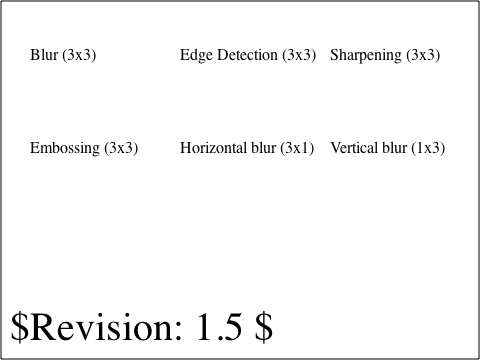
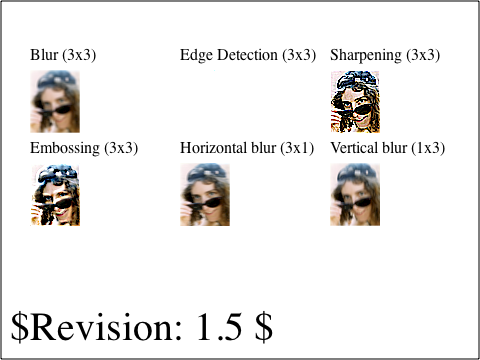
WebCore: Implementing feConvolveMatrix svg filter https://bugs.webkit.org/show_bug.cgi?id=5861
Reviewed by Nikolas Zimmermann.

The implementation is optimized for speed, and uses
multiple algorithms for different parts of the image.
See SVGFEConvolveMatrixElement.cpp for a detailed
description.

* svg/SVGFEConvolveMatrixElement.cpp:
(WebCore::SVGFEConvolveMatrixElement::build):
* svg/graphics/filters/SVGFEConvolveMatrix.cpp:
(WebCore::clampRGBAValue):
(WebCore::FEConvolveMatrix::fastSetInteriorPixels):
(WebCore::FEConvolveMatrix::getPixelValue):
(WebCore::FEConvolveMatrix::fastSetOuterPixels):
(WebCore::FEConvolveMatrix::setInteriorPixels):
(WebCore::FEConvolveMatrix::setOuterPixels):
(WebCore::FEConvolveMatrix::apply):
* svg/graphics/filters/SVGFEConvolveMatrix.h:
(WebCore::FEConvolveMatrix::uniteChildEffectSubregions):

LayoutTests: Updating expected values for feConvolveMatrix
https://bugs.webkit.org/show_bug.cgi?id=5861

Reviewed by Nikolas Zimmermann.

* platform/mac-leopard/svg/W3C-SVG-1.1/filters-conv-01-f-expected.checksum:
* platform/mac-leopard/svg/W3C-SVG-1.1/filters-conv-01-f-expected.png:

Identifier: 53193@main
git-svn-id: https://svn.webkit.org/repository/webkit/trunk@62243 268f45cc-cd09-0410-ab3c-d52691b4dbfc

diff --git a/WebCore/svg/graphics/filters/SVGFEConvolveMatrix.cpp b/WebCore/svg/graphics/filters/SVGFEConvolveMatrix.cpp
@@ -138,8 +138,295 @@ void FEConvolveMatrix::setPreserveAlpha(bool preserveAlpha)
     m_preserveAlpha = preserveAlpha; 
 }
 
-void FEConvolveMatrix::apply(Filter*)
+/*
+   -----------------------------------
+      ConvolveMatrix implementation
+   -----------------------------------
+
+   The image rectangle is split in the following way:
+
+      +---------------------+
+      |          A          |
+      +---------------------+
+      |   |             |   |
+      | B |      C      | D |
+      |   |             |   |
+      +---------------------+
+      |          E          |
+      +---------------------+
+
+   Where region C contains those pixels, whose values
+   can be calculated without crossing the edge of the rectangle.
+
+   Example:
+      Image size: width: 10, height: 10
+
+      Order (kernel matrix size): width: 3, height 4
+      Target: x:1, y:3
+
+      The following figure shows the target inside the kernel matrix:
+
+        ...
+        ...
+        ...
+        .X.
+
+   The regions in this case are the following:
+      Note: (x1, y1) top-left and (x2, y2) is the bottom-right corner
+      Note: row x2 and column y2 is not part of the region
+            only those (x, y) pixels, where x1 <= x < x2 and y1 <= y < y2
+
+      Region A: x1: 0, y1: 0, x2: 10, y2: 3
+      Region B: x1: 0, y1: 3, x2: 1, y2: 10
+      Region C: x1: 1, y1: 3, x2: 9, y2: 10
+      Region D: x1: 9, y1: 3, x2: 10, y2: 10
+      Region E: x1: 0, y1: 10, x2: 10, y2: 10 (empty region)
+
+   Since region C (often) contains most of the pixels, we implemented
+   a fast algoritm to calculate these values, called fastSetInteriorPixels.
+   For other regions, fastSetOuterPixels is used, which calls getPixelValue,
+   to handle pixels outside of the image. In a rare situations, when
+   kernel matrix is bigger than the image, all pixels are calculated by this
+   function.
+
+   Although these two functions have lot in common, I decided not to make
+   common a template for them, since there are key differences as well,
+   and would make it really hard to understand.
+*/
+
+static ALWAYS_INLINE unsigned char clampRGBAValue(float rgba)
 {
+    if (rgba <= 0)
+        return 0;
+    if (rgba >= 255)
+        return 255;
+    return rgba;
+}
+
+// Only for region C
+template<bool preserveAlphaValues>
+ALWAYS_INLINE void FEConvolveMatrix::fastSetInteriorPixels(PaintingData& paintingData, int clipRight, int clipBottom)
+{
+    // edge mode does not affect these pixels
+    int pixel = (m_targetOffset.y() * paintingData.width + m_targetOffset.x()) * 4;
+    int startKernelPixel = 0;
+    int kernelIncrease = clipRight * 4;
+    int xIncrease = (m_kernelSize.width() - 1) * 4;
+    // Contains the sum of rgb(a) components
+    float totals[3 + (preserveAlphaValues ? 0 : 1)];
+
+    // m_divisor cannot be 0, SVGFEConvolveMatrixElement ensures this
+    ASSERT(m_divisor);
+
+    for (int y = clipBottom + 1; y > 0; --y) {
+        for (int x = clipRight + 1; x > 0; --x) {
+            int kernelValue = m_kernelMatrix.size() - 1;
+            int kernelPixel = startKernelPixel;
+            int width = m_kernelSize.width();
+
+            totals[0] = 0;
+            totals[1] = 0;
+            totals[2] = 0;
+            if (!preserveAlphaValues)
+                totals[3] = 0;
+
+            while (kernelValue >= 0) {
+                totals[0] += m_kernelMatrix[kernelValue] * static_cast<float>(paintingData.srcPixelArray->get(kernelPixel++));
+                totals[1] += m_kernelMatrix[kernelValue] * static_cast<float>(paintingData.srcPixelArray->get(kernelPixel++));
+                totals[2] += m_kernelMatrix[kernelValue] * static_cast<float>(paintingData.srcPixelArray->get(kernelPixel++));
+                if (!preserveAlphaValues)
+                    totals[3] += m_kernelMatrix[kernelValue] * static_cast<float>(paintingData.srcPixelArray->get(kernelPixel));
+                ++kernelPixel;
+                --kernelValue;
+                if (!--width) {
+                    kernelPixel += kernelIncrease;
+                    width = m_kernelSize.width();
+                }
+            }
+
+            paintingData.dstPixelArray->set(pixel++, clampRGBAValue(totals[0] / m_divisor + paintingData.bias));
+            paintingData.dstPixelArray->set(pixel++, clampRGBAValue(totals[1] / m_divisor + paintingData.bias));
+            paintingData.dstPixelArray->set(pixel++, clampRGBAValue(totals[2] / m_divisor + paintingData.bias));
+            if (!preserveAlphaValues)
+                paintingData.dstPixelArray->set(pixel++, clampRGBAValue(totals[3] / m_divisor + paintingData.bias));
+            else {
+                paintingData.dstPixelArray->set(pixel, paintingData.srcPixelArray->get(pixel));
+                ++pixel;
+            }
+            startKernelPixel += 4;
+        }
+        pixel += xIncrease;
+        startKernelPixel += xIncrease;
+    }
+}
+
+ALWAYS_INLINE int FEConvolveMatrix::getPixelValue(PaintingData& paintingData, int x, int y)
+{
+    if (x >= 0 && x < paintingData.width && x >= 0 && y < paintingData.height)
+        return (y * paintingData.width + x) << 2;
+
+    switch (m_edgeMode) {
+    default: // EDGEMODE_NONE
+        return -1;
+    case EDGEMODE_DUPLICATE:
+        if (x < 0)
+            x = 0;
+        else if (x >= paintingData.width)
+            x = paintingData.width - 1;
+        if (y < 0)
+            y = 0;
+        else if (y >= paintingData.height)
+            y = paintingData.height - 1;
+        return (y * paintingData.width + x) << 2;
+    case EDGEMODE_WRAP:
+        while (x < 0)
+            x += paintingData.width;
+        x %= paintingData.width;
+        while (y < 0)
+            y += paintingData.height;
+        y %= paintingData.height;
+        return (y * paintingData.width + x) << 2;
+    }
+}
+
+// For other regions than C
+template<bool preserveAlphaValues>
+void FEConvolveMatrix::fastSetOuterPixels(PaintingData& paintingData, int x1, int y1, int x2, int y2)
+{
+    int pixel = (y1 * paintingData.width + x1) * 4;
+    int height = y2 - y1;
+    int width = x2 - x1;
+    int beginKernelPixelX = x1 - m_targetOffset.x();
+    int startKernelPixelX = beginKernelPixelX;
+    int startKernelPixelY = y1 - m_targetOffset.y();
+    int xIncrease = (paintingData.width - width) * 4;
+    // Contains the sum of rgb(a) components
+    float totals[3 + (preserveAlphaValues ? 0 : 1)];
+
+    // m_divisor cannot be 0, SVGFEConvolveMatrixElement ensures this
+    ASSERT(m_divisor);
+
+    for (int y = height; y > 0; --y) {
+        for (int x = width; x > 0; --x) {
+            int kernelValue = m_kernelMatrix.size() - 1;
+            int kernelPixelX = startKernelPixelX;
+            int kernelPixelY = startKernelPixelY;
+            int width = m_kernelSize.width();
+
+            totals[0] = 0;
+            totals[1] = 0;
+            totals[2] = 0;
+            if (!preserveAlphaValues)
+                totals[3] = 0;
+
+            while (kernelValue >= 0) {
+                int pixelIndex = getPixelValue(paintingData, kernelPixelX, kernelPixelY);
+                if (pixelIndex >= 0) {
+                    totals[0] += m_kernelMatrix[kernelValue] * static_cast<float>(paintingData.srcPixelArray->get(pixelIndex));
+                    totals[1] += m_kernelMatrix[kernelValue] * static_cast<float>(paintingData.srcPixelArray->get(pixelIndex + 1));
+                    totals[2] += m_kernelMatrix[kernelValue] * static_cast<float>(paintingData.srcPixelArray->get(pixelIndex + 2));
+                }
+                if (!preserveAlphaValues && pixelIndex >= 0)
+                    totals[3] += m_kernelMatrix[kernelValue] * static_cast<float>(paintingData.srcPixelArray->get(pixelIndex + 3));
+                ++kernelPixelX;
+                --kernelValue;
+                if (!--width) {
+                    kernelPixelX = startKernelPixelX;
+                    ++kernelPixelY;
+                    width = m_kernelSize.width();
+                }
+            }
+
+            paintingData.dstPixelArray->set(pixel++, clampRGBAValue(totals[0] / m_divisor + paintingData.bias));
+            paintingData.dstPixelArray->set(pixel++, clampRGBAValue(totals[1] / m_divisor + paintingData.bias));
+            paintingData.dstPixelArray->set(pixel++, clampRGBAValue(totals[2] / m_divisor + paintingData.bias));
+            if (!preserveAlphaValues)
+                paintingData.dstPixelArray->set(pixel++, clampRGBAValue(totals[3] / m_divisor + paintingData.bias));
+            else {
+                paintingData.dstPixelArray->set(pixel, paintingData.srcPixelArray->get(pixel));
+                ++pixel;
+            }
+            ++startKernelPixelX;
+        }
+        pixel += xIncrease;
+        startKernelPixelX = beginKernelPixelX;
+        ++startKernelPixelY;
+    }
+}
+
+ALWAYS_INLINE void FEConvolveMatrix::setInteriorPixels(PaintingData& paintingData, int clipRight, int clipBottom)
+{
+    // Must be implemented here, since it refers another ALWAYS_INLINE
+    // function, which defined in this C++ source file as well
+    if (m_preserveAlpha)
+        fastSetInteriorPixels<true>(paintingData, clipRight, clipBottom);
+    else
+        fastSetInteriorPixels<false>(paintingData, clipRight, clipBottom);
+}
+
+ALWAYS_INLINE void FEConvolveMatrix::setOuterPixels(PaintingData& paintingData, int x1, int y1, int x2, int y2)
+{
+    // Although this function can be moved to the header, it is implemented here
+    // because setInteriorPixels is also implemented here
+    if (m_preserveAlpha)
+        fastSetOuterPixels<true>(paintingData, x1, y1, x2, y2);
+    else
+        fastSetOuterPixels<false>(paintingData, x1, y1, x2, y2);
+}
+
+void FEConvolveMatrix::apply(Filter* filter)
+{
+    m_in->apply(filter);
+    if (!m_in->resultImage())
+        return;
+
+    if (!getEffectContext())
+        return;
+
+    IntRect imageRect(IntPoint(), resultImage()->size());
+    IntRect effectDrawingRect = calculateDrawingIntRect(m_in->subRegion());
+
+    RefPtr<CanvasPixelArray> srcPixelArray;
+    if (m_preserveAlpha)
+        srcPixelArray = m_in->resultImage()->getUnmultipliedImageData(effectDrawingRect)->data();
+    else
+        srcPixelArray = m_in->resultImage()->getPremultipliedImageData(effectDrawingRect)->data();
+
+    RefPtr<ImageData> imageData = ImageData::create(imageRect.width(), imageRect.height());
+
+    PaintingData paintingData;
+    paintingData.srcPixelArray = srcPixelArray.get();
+    paintingData.dstPixelArray = imageData->data();
+    paintingData.width = imageRect.width();
+    paintingData.height = imageRect.height();
+    paintingData.bias = m_bias * 255;
+
+    // Drawing fully covered pixels
+    int clipRight = imageRect.width() - m_kernelSize.width();
+    int clipBottom = imageRect.height() - m_kernelSize.height();
+
+    if (clipRight >= 0 && clipBottom >= 0) {
+        setInteriorPixels(paintingData, clipRight, clipBottom);
+
+        clipRight += m_targetOffset.x() + 1;
+        clipBottom += m_targetOffset.y() + 1;
+        if (m_targetOffset.y() > 0)
+            setOuterPixels(paintingData, 0, 0, imageRect.width(), m_targetOffset.y());
+        if (clipBottom < imageRect.height())
+            setOuterPixels(paintingData, 0, clipBottom, imageRect.width(), imageRect.height());
+        if (m_targetOffset.x() > 0)
+            setOuterPixels(paintingData, 0, m_targetOffset.y(), m_targetOffset.x(), clipBottom);
+        if (clipRight < imageRect.width())
+            setOuterPixels(paintingData, clipRight, m_targetOffset.y(), imageRect.width(), clipBottom);
+    } else {
+        // Rare situation, not optimizied for speed
+        setOuterPixels(paintingData, 0, 0, imageRect.width(), imageRect.height());
+    }
+
+    if (m_preserveAlpha)
+        resultImage()->putUnmultipliedImageData(imageData.get(), imageRect, IntPoint());
+    else
+        resultImage()->putPremultipliedImageData(imageData.get(), imageRect, IntPoint());
 }
 
 void FEConvolveMatrix::dump()

diff --git a/WebCore/svg/graphics/filters/SVGFEConvolveMatrix.h b/WebCore/svg/graphics/filters/SVGFEConvolveMatrix.h
@@ -72,6 +72,7 @@ public:
     bool preserveAlpha() const;
     void setPreserveAlpha(bool);
 
+    virtual FloatRect uniteChildEffectSubregions(Filter* filter) { return calculateUnionOfChildEffectSubregions(filter, m_in.get()); }
     void apply(Filter*);
     void dump();
     TextStream& externalRepresentation(TextStream&, int indent) const;
@@ -79,6 +80,26 @@ public:
 private:
     FEConvolveMatrix(FilterEffect*, const IntSize&, float, float,
             const IntPoint&, EdgeModeType, const FloatPoint&, bool, const Vector<float>&);
+
+    struct PaintingData {
+        CanvasPixelArray* srcPixelArray;
+        CanvasPixelArray* dstPixelArray;
+        int width;
+        int height;
+        float bias;
+    };
+
+    template<bool preserveAlphaValues>
+    ALWAYS_INLINE void fastSetInteriorPixels(PaintingData&, int clipRight, int clipBottom);
+
+    ALWAYS_INLINE int getPixelValue(PaintingData&, int x, int y);
+
+    template<bool preserveAlphaValues>
+    void fastSetOuterPixels(PaintingData&, int x1, int y1, int x2, int y2);
+
+    // Wrapper functions
+    ALWAYS_INLINE void setInteriorPixels(PaintingData& paintingData, int clipRight, int clipBottom);
+    ALWAYS_INLINE void setOuterPixels(PaintingData& paintingData, int x1, int y1, int x2, int y2);
 
     RefPtr<FilterEffect> m_in;
     IntSize m_kernelSize;

diff --git a/WebCore/svg/SVGFEConvolveMatrixElement.cpp b/WebCore/svg/SVGFEConvolveMatrixElement.cpp
@@ -131,10 +131,12 @@ PassRefPtr<FilterEffect> SVGFEConvolveMatrixElement::build(SVGFilterBuilder* fil
     int targetYValue = targetY();
     if (hasAttribute(SVGNames::targetXAttr) && (targetXValue < 0 || targetXValue >= orderXValue))
         return 0;
+    // The spec says the default value is: targetX = floor ( orderX / 2 ))
     if (!hasAttribute(SVGNames::targetXAttr))
         targetXValue = static_cast<int>(floorf(orderXValue / 2));
     if (hasAttribute(SVGNames::targetYAttr) && (targetYValue < 0 || targetYValue >= orderYValue))
         return 0;
+    // The spec says the default value is: targetY = floor ( orderY / 2 ))
     if (!hasAttribute(SVGNames::targetYAttr))
         targetYValue = static_cast<int>(floorf(orderYValue / 2));
 
